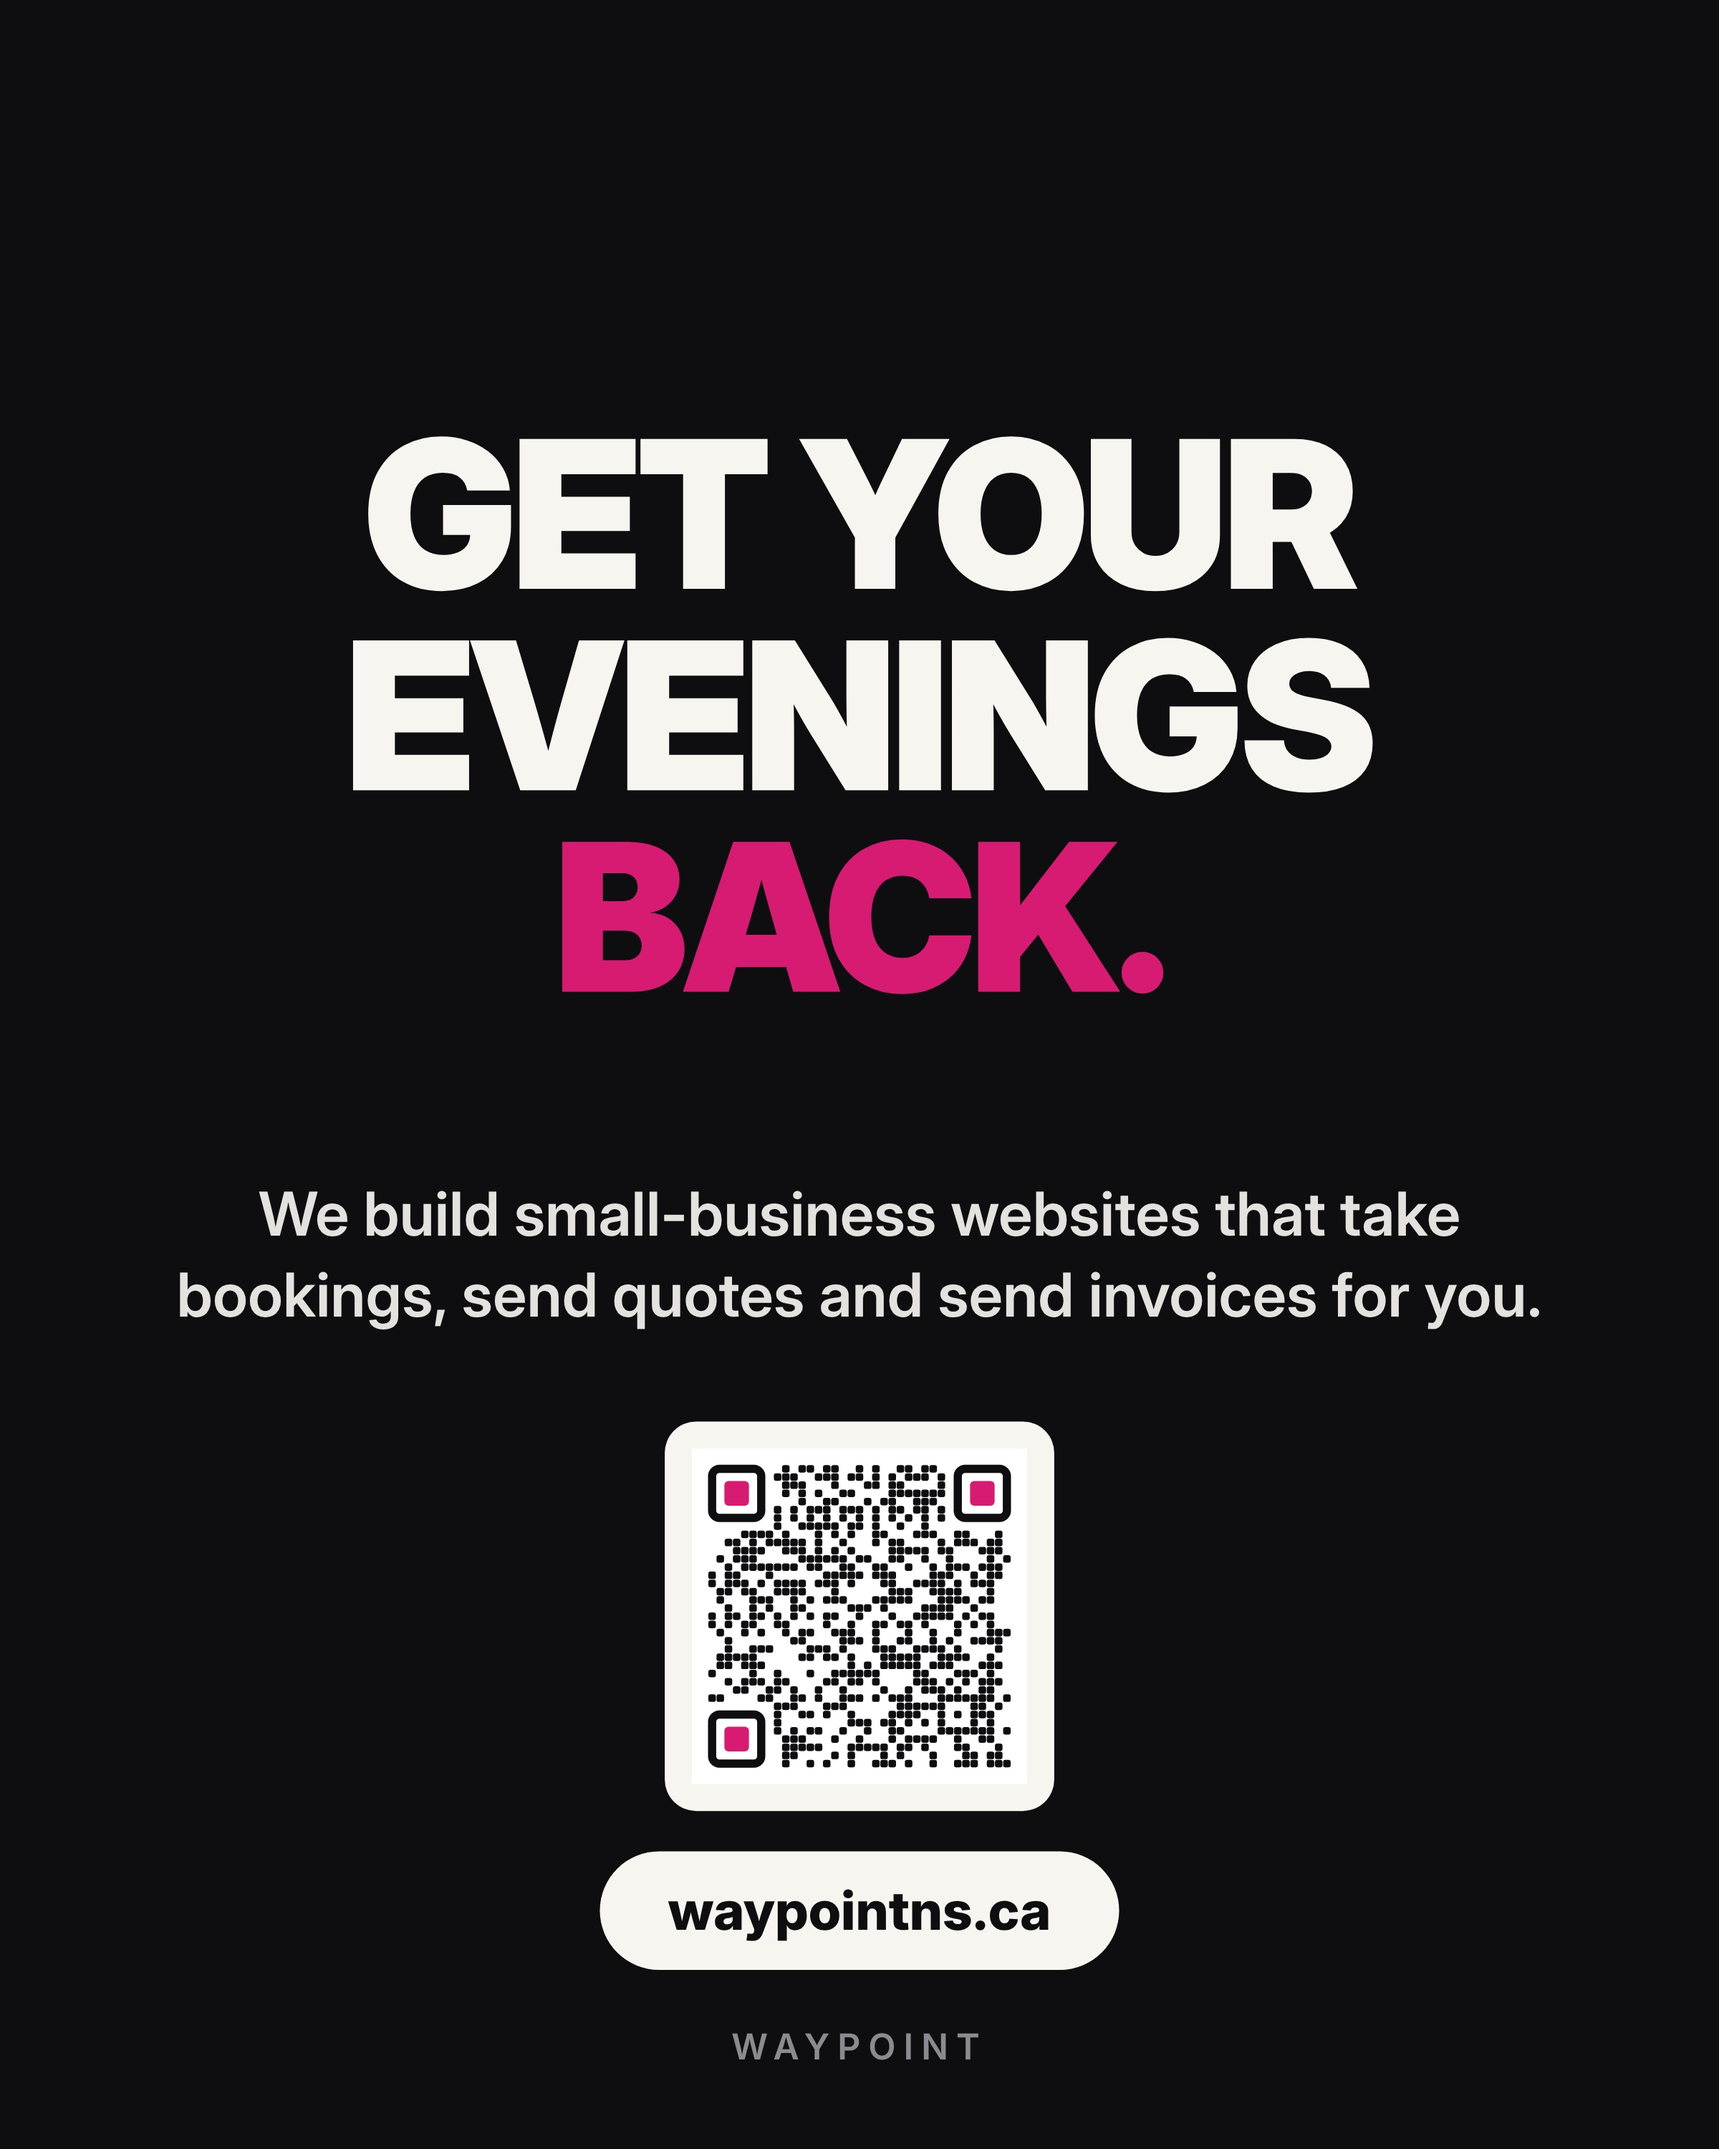
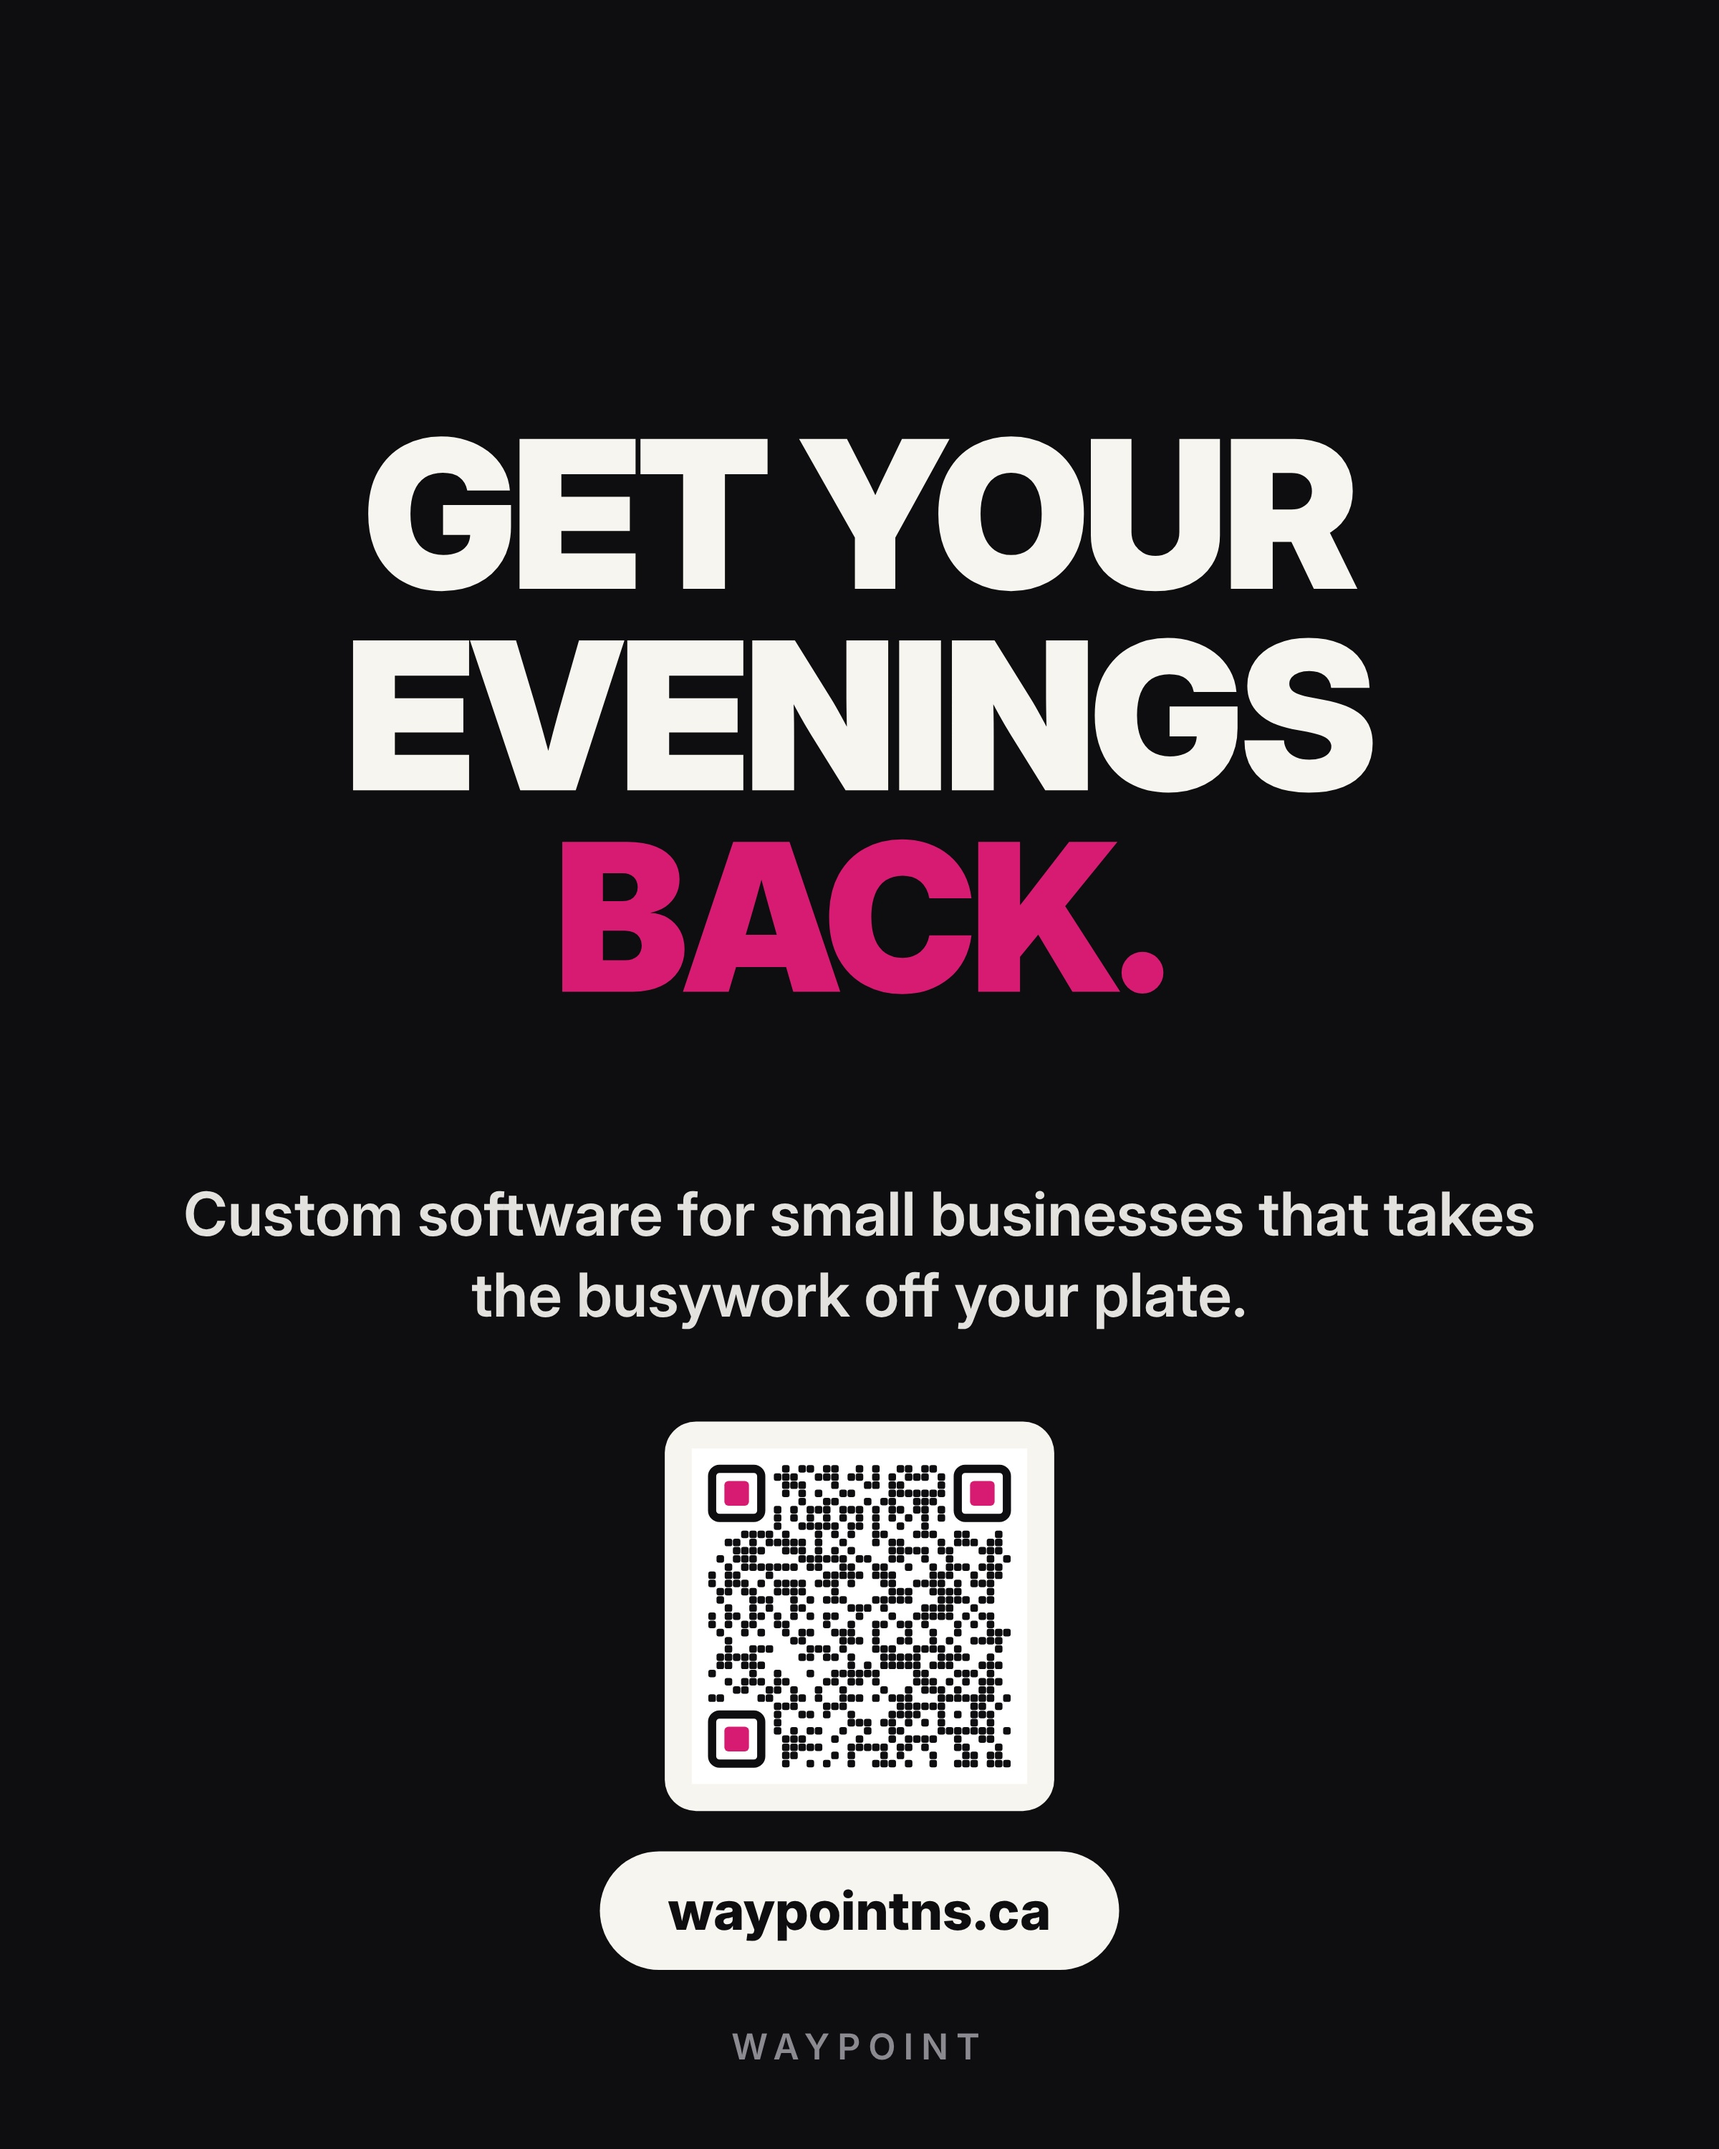
Waypoint 8x10 v3: broader line, no websites
Claude-Session: https://claude.ai/code/session_01UPAJLw6c4vTycKpExetbcj

Changed region(s): [[0.0938, 0.558, 0.9062, 0.62]]

diff --git a/poster-run/walmart-8x10/build_wp_v3.py b/poster-run/walmart-8x10/build_wp_v3.py
@@ -19,7 +19,7 @@ body{{width:768px;height:960px;background:{bg};color:{fg};font-family:I,sans-ser
 </div>
 <div style="position:absolute;left:0;right:0;bottom:36px;font-weight:600;font-size:16px;letter-spacing:.22em;color:{mark_col}">WAYPOINT</div>
 </body></html>'''
-A=page(INK,OFF,f'Get your<br>evenings<br><span style="color:{MAG}">back.</span>',INK,OFF,INK,"#8A8A90",sub="We build small-business websites that take bookings, send quotes and send invoices for you.")
+A=page(INK,OFF,f'Get your<br>evenings<br><span style="color:{MAG}">back.</span>',INK,OFF,INK,"#8A8A90",sub="Custom software for small businesses that takes the busywork off your plate.")
 B=page(MAG,OFF,'Close the<br>laptop<br>at five.',INK,OFF,INK,"#F5B8D2")
 with sync_playwright() as pw:
     b=pw.chromium.launch(); pg=b.new_page(viewport={"width":768,"height":960},device_scale_factor=3.125)
